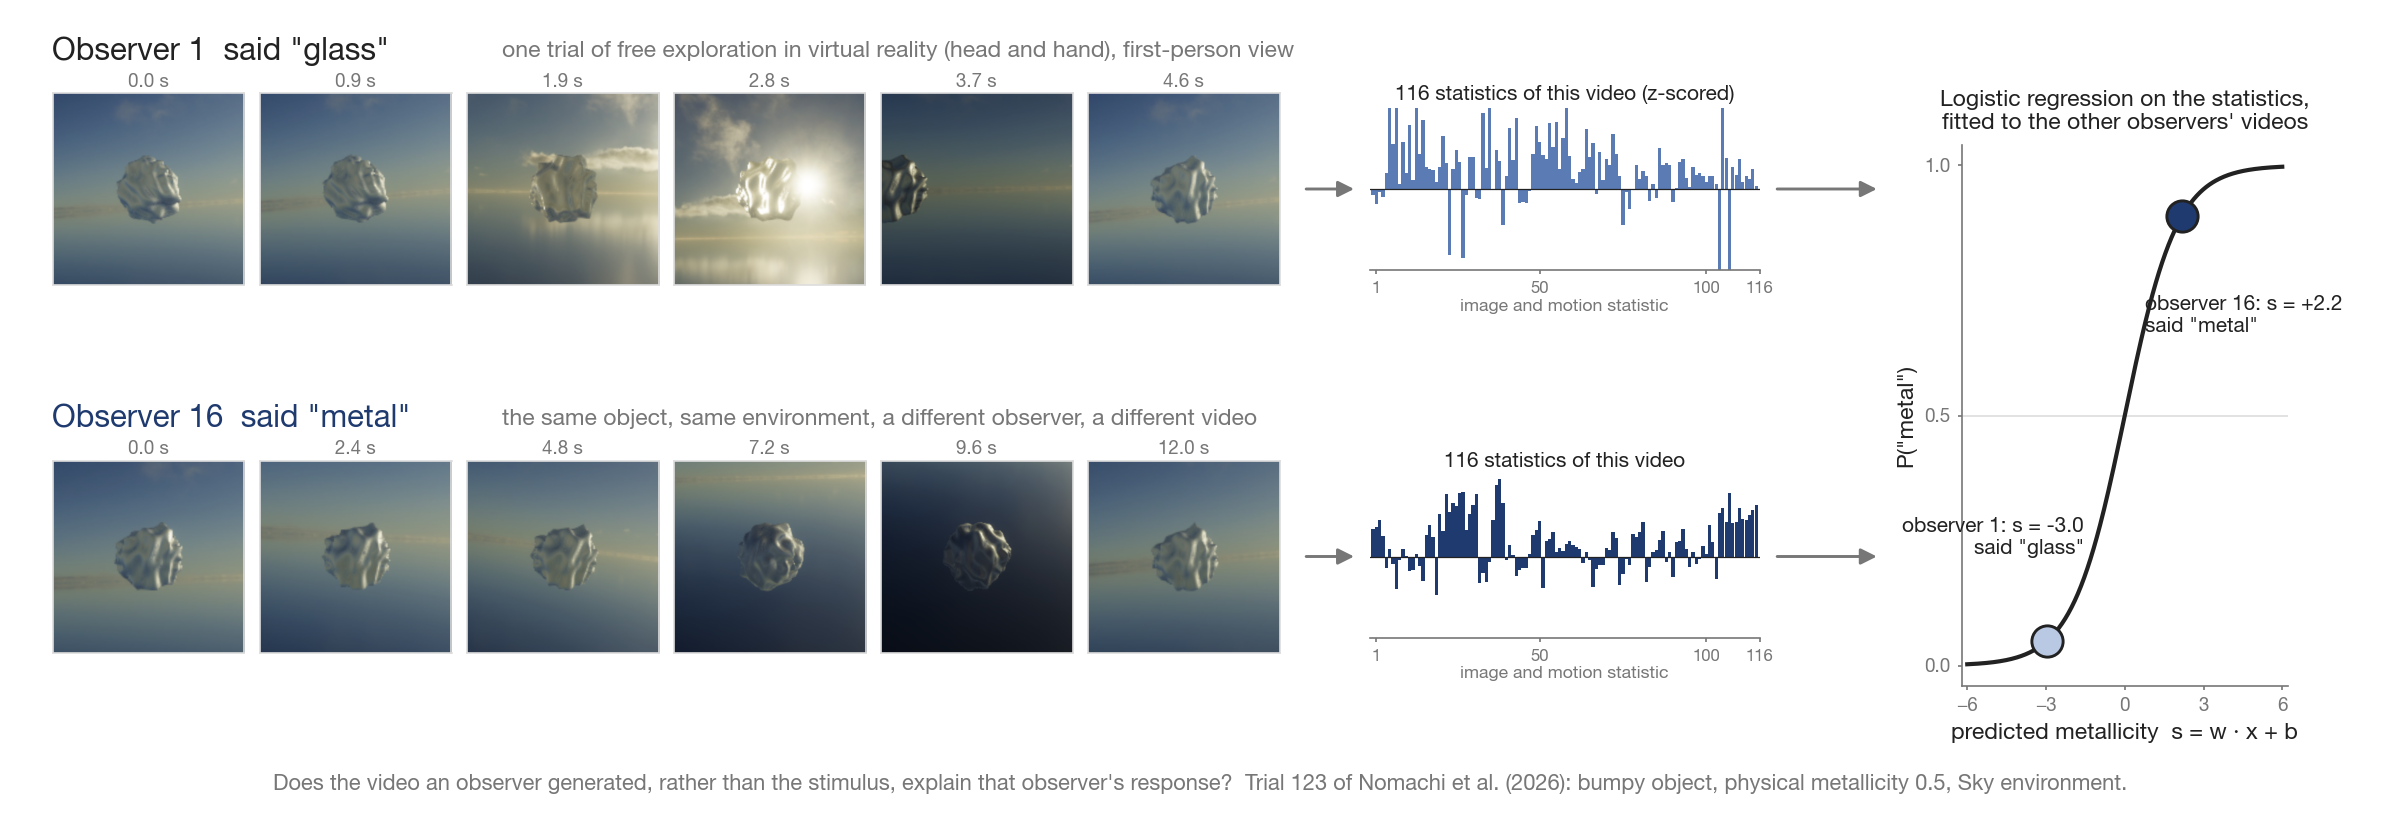
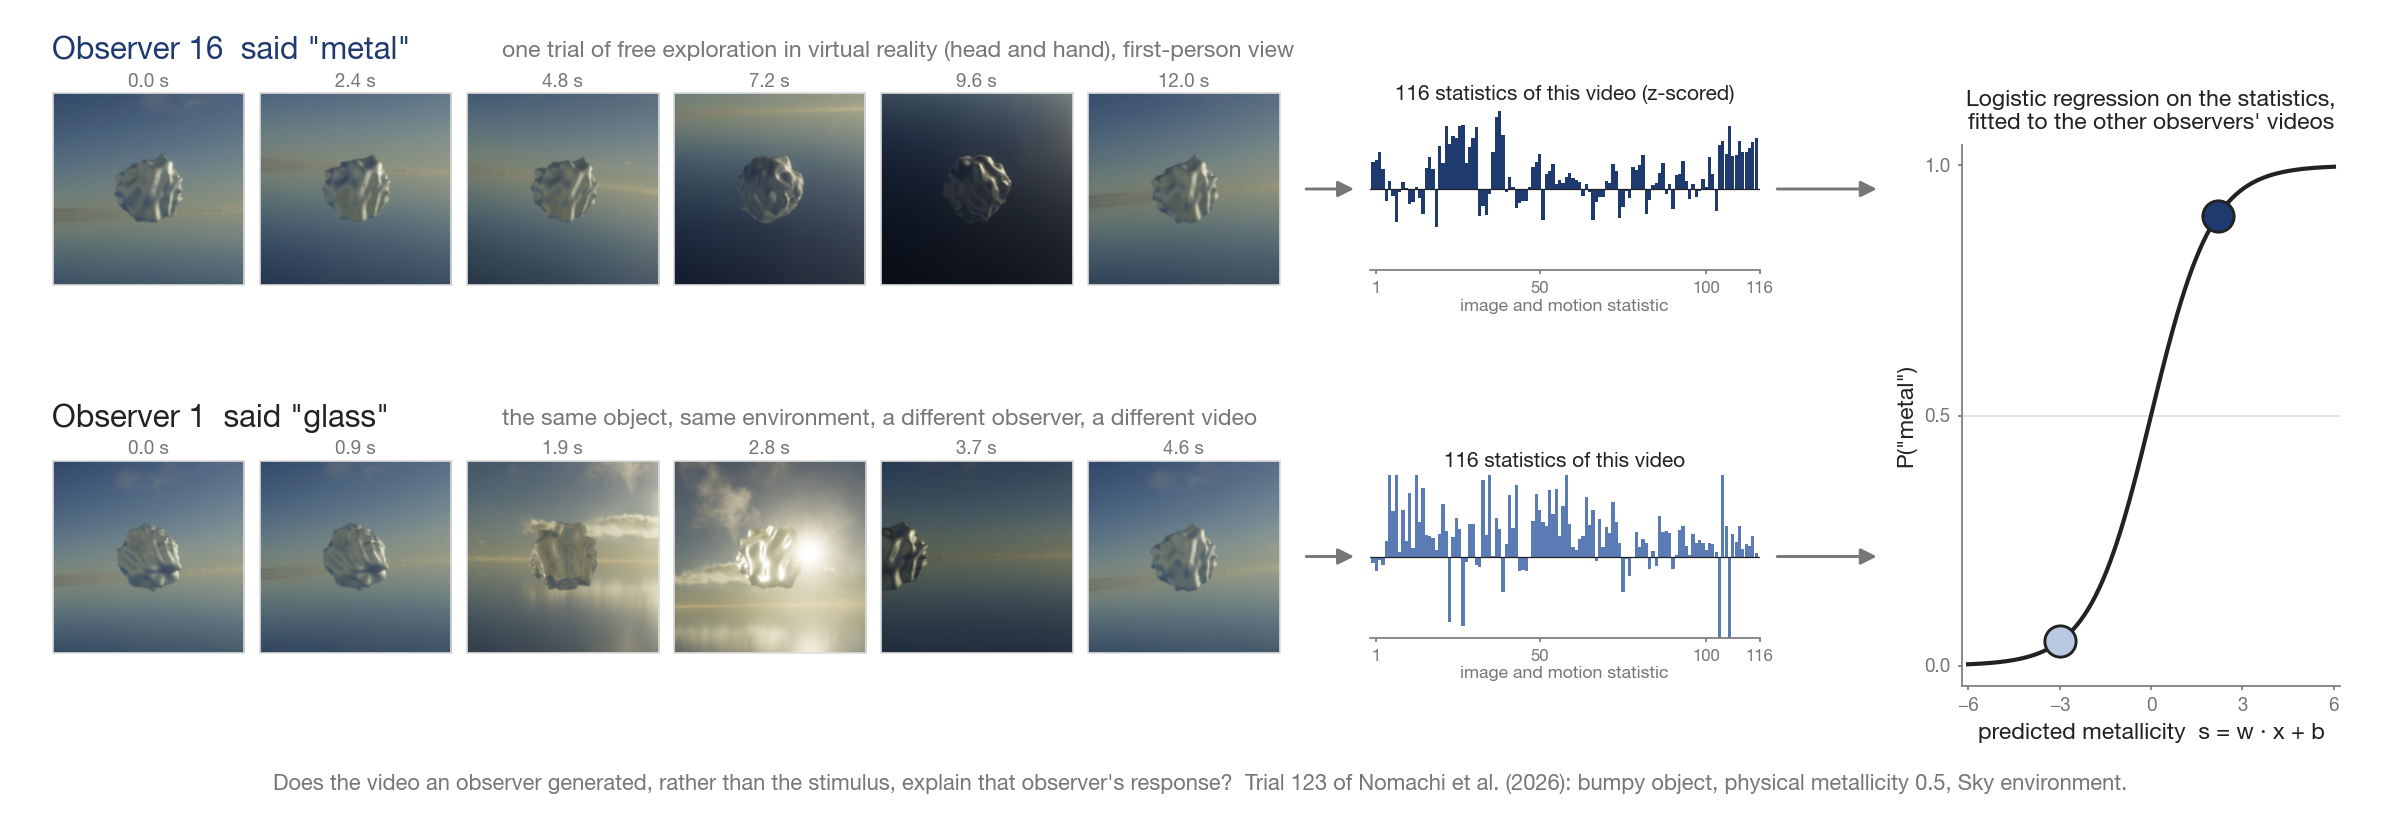
Thumbnail: metal example first, no labels on the model curve

diff --git a/assets/make_thumbnail.py b/assets/make_thumbnail.py
@@ -1,9 +1,9 @@
 """The thumbnail of the README (assets/thumbnail.png).
 
 Two observers explored the same object (trial 123: bumpy, physical metallicity
-0.5, Sky environment, head and hand) and answered differently: observer 1 held
-it up into the sun and said "glass", observer 16 looked at it against the sea
-and said "metal".  The top rows show frames of the two first-person videos; the
+0.5, Sky environment, head and hand) and answered differently: observer 16
+looked at it against the sea and said "metal", observer 1 held it up into the
+sun and said "glass".  The top rows show frames of the two first-person videos; the
 right-hand column shows what the model does with them: 116 statistics of each
 video, a logistic regression, and the predicted metallicity of each video on
 the model's curve.  The statistics and predicted metallicities are the real
@@ -28,7 +28,7 @@ from common import IMGS, RESULTS, MAIN_FEATURES, context_crop, frame_paths     #
 from evaluate import load_features_clean                                        # noqa: E402
 
 TRIAL = 123
-OBSERVERS = [("001", "glass"), ("016", "metal")]
+OBSERVERS = [("016", "metal"), ("001", "glass")]
 N_FRAMES = 6
 INK, GRAY = "#222222", "#777777"
 C_METAL, C_GLASS = "#1f3a6e", "#b9c9e3"          # the dark and light blue of the figures
@@ -93,7 +93,7 @@ for r, row in enumerate(rows):
 
 # the model: a logistic regression fitted to the other observers' videos, the two videos on its curve
 mx = left_x + N_FRAMES * (tile + gap) + 0.5 + 2.6 + 0.9
-axm = ax_in(mx + 0.45, top_y + 0.35, W - mx - 0.45 - 0.75, row_h * 2 - 1.3)
+axm = ax_in(mx + 0.45, top_y + 0.35, W - mx - 0.45 - 0.4, row_h * 2 - 1.3)
 ss = np.linspace(-6, 6, 300)
 axm.plot(ss, 1 / (1 + np.exp(-ss)), color=INK, lw=2)
 axm.axhline(0.5, color="#dddddd", lw=0.8, zorder=0)
@@ -101,10 +101,6 @@ for row in rows:
     s = row["s"]; p = 1 / (1 + np.exp(-s))
     c = C_METAL if row["resp"] == "metal" else C_GLASS
     axm.plot(s, p, "o", ms=15, mfc=c, mec=INK, mew=1.4, zorder=5)
-    if row["resp"] == "glass":
-        axm.annotate(f'observer {int(row["pid"])}: s = {s:+.1f}\nsaid "{row["resp"]}"', (s, p), xytext=(18, 40), textcoords="offset points", ha="right", va="bottom", fontsize=10, color=INK)
-    else:
-        axm.annotate(f'observer {int(row["pid"])}: s = {s:+.1f}\nsaid "{row["resp"]}"', (s, p), xytext=(-18, -38), textcoords="offset points", ha="left", va="top", fontsize=10, color=INK)
 axm.set_xlim(-6.2, 6.2); axm.set_ylim(-0.04, 1.04)
 axm.set_xticks([-6, -3, 0, 3, 6]); axm.set_yticks([0, 0.5, 1]); axm.tick_params(labelsize=9, colors=GRAY, length=2)
 for sp in ("top", "right"): axm.spines[sp].set_visible(False)
